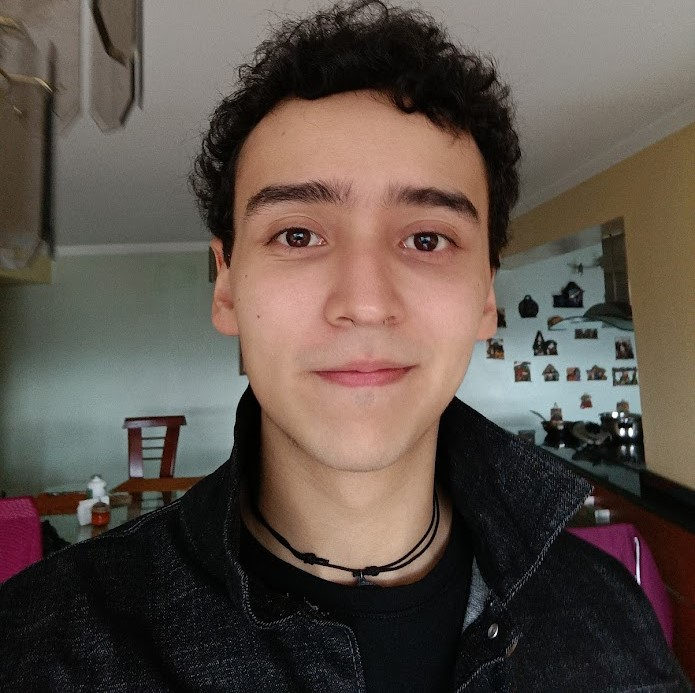
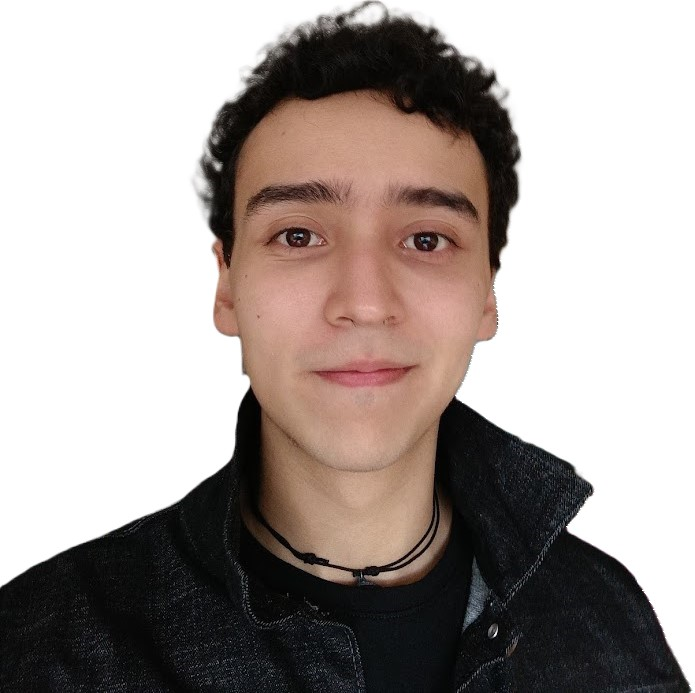
add About Me section

diff --git a/src/components/aboutMe.svelte b/src/components/aboutMe.svelte
@@ -1,0 +1,166 @@
+<script>
+  // @ts-nocheck
+
+  import AboutImg from "../assets/about_img.png";
+
+  import DiGithubBadge from "svelte-icons/di/DiGithubBadge.svelte";
+  import FaLinkedin from "svelte-icons/fa/FaLinkedin.svelte";
+  import FaInstagram from "svelte-icons/fa/FaInstagram.svelte";
+
+  import FaStar from "svelte-icons/fa/FaStar.svelte";
+</script>
+
+<main>
+  <section id="about-me">
+    <div class="about-container">
+      <div class="decoration-div" />
+      <div class="decoration-icon">
+        <FaStar />
+      </div>
+      <h2>About Me</h2>
+      <div class="row">
+        <div class="avatar">
+          <img src={AboutImg} alt="profile" aria-label="profile" />
+        </div>
+        <div class="col">
+          <h1>Code Architect, Problem Solver</h1>
+          <h4>
+            I am a software engineer graduated from the National Experimental
+            University of Táchira. (UNET) I have worked in the development of
+            web applications, mobile applications, and cloud services since my
+            lasts years in college.
+          </h4>
+          <div class="icons-row">
+            <div class="icon">
+              <a href="https://github.com/Alexjes98">
+                <DiGithubBadge />
+              </a>
+            </div>
+            <div class="icon">
+              <a href="https://www.linkedin.com/in/alejandro-lopez-9b3462179/">
+                <FaLinkedin />
+              </a>
+            </div>
+            <div class="icon">
+              <a href="https://www.instagram.com/alexandre_dupre98/">
+                <FaInstagram />
+              </a>
+            </div>
+            <div class="download-container">
+              <button> Download CV </button>
+            </div>
+          </div>
+        </div>
+      </div>
+    </div>
+  </section>
+</main>
+
+<style>
+  .decoration-icon {
+    position: absolute;
+    z-index: 0;
+    bottom: 5%;
+    left: 0%;
+    width: 50px;
+    height: 50px;
+    color: var(--white);
+    rotate: 90deg;
+  }
+  .decoration-div {
+    position: absolute;
+    z-index: 2;
+    width: 110%;
+    bottom: 0;
+    left: -10px;
+    height: 33px;
+    background-color: var(--main-color);
+  }
+  .icons-row {
+    display: flex;
+    justify-content: space-around;
+    align-items: center;
+    width: 100%;
+  }
+  button {
+    background-color: var(--accent-color);
+    color: var(--secondary-color);
+    border: none;
+    width: 100%;
+    padding: 10px 20px;
+    border-radius: 5px;
+    cursor: pointer;
+  }
+  button:hover {
+    background-color: var(--accent-color-dark);
+  }
+  a {
+    text-decoration: none;
+    color: white;
+  }
+  a:hover {
+    color: var(--main-color);
+  }
+  .icon {
+    width: 100%;
+    height: 54px;
+    color: white;
+    margin-bottom: 70px;
+    margin-right: 20px;
+  }
+  .download-container {
+    align-self: flex-end;
+    width: 100%;
+    height: 54px;
+    margin-bottom: 70px;
+    margin-right: 20px;
+  }
+
+  .avatar {
+    display: flex;
+    justify-content: center;
+    align-items: center;
+    background-color: var(--background-color);
+    width: 500px;
+    height: 500px;
+    border-radius: 500px;
+    overflow: hidden;
+  }
+  img {
+    width: 100%;
+    height: auto;
+    padding: 20px;
+  }
+  h2 {
+    font-family: "Courier New", Courier, monospace;
+    font-weight: bold;
+    text-align: center;
+  }
+  .row {
+    display: flex;
+    flex-direction: row;
+    justify-content: space-around;
+    align-items: center;
+    flex: 2;
+  }
+  .col {
+    display: flex;
+    flex-direction: column;
+    justify-content: center;
+    align-items: start;
+    flex: 2;
+    margin-inline: 20px;
+  }
+  .about-container {
+    position: relative;
+    padding-inline: 20px;
+    margin-top: 80px;
+    width: 100%;
+    background-color: var(--secondary-color);
+  }
+  h2,
+  h4,
+  h1 {
+    color: var(--background-color);
+  }
+</style>

diff --git a/src/components/experienceList.svelte b/src/components/experienceList.svelte
@@ -37,16 +37,14 @@
         </div>
         <div class="experience-item">
           <div class="icon">
-            <div class="icon">
-              <FaCloud />
-            </div>
+            <FaCloud />
           </div>
           <h3>Cloud Development</h3>
-
           <p>
             I have experience with AWS services like EC2, S3, RDS, Lambda,
-            ElasticBeanstalk, Amplify, Cognito and Azure services like Blob Storage, Cosmos DB, Functions, and I have used them to
-            deploy and scale web applications
+            ElasticBeanstalk, Amplify, Cognito and Azure services like Blob
+            Storage, Cosmos DB, Functions, and I have used them to deploy and
+            scale web applications
           </p>
         </div>
         <div class="experience-item">
@@ -67,6 +65,9 @@
 </main>
 
 <style>
+  section {
+    margin-bottom: 100px;
+  }
   p {
     font-family: "Courier New", Courier, monospace;
     font-weight: bold;
@@ -95,7 +96,7 @@
 
   .experience-list {
     width: 100%;
-    justify-content: space-between;
+    justify-content: center;
     display: flex;
     flex-wrap: wrap;
     gap: 20px;

diff --git a/src/components/presentationSection.svelte b/src/components/presentationSection.svelte
@@ -16,8 +16,7 @@
       <div class="col">
         <h1>Hi my name is Alejandro Lopez</h1>
         <h2>
-          I'm a software engineer with a passion for system design from
-          Venezuela
+          I'm a software engineer with a passion for system design
         </h2>
         <div class="button-container">
           <button on:click={scrollToSection}>Start</button>
@@ -31,7 +30,7 @@
 <style>
 
   section {
-    margin-bottom: 500px;
+    margin-bottom: 400px;
   }
   img {
     width: 20%;

diff --git a/src/routes/home.svelte b/src/routes/home.svelte
@@ -3,6 +3,7 @@
   import HomeScene from "../scenes/homeScene.svelte";
   import ExperienceList from "../components/experienceList.svelte";
   import PresentationSection from "../components/presentationSection.svelte";
+  import AboutMe from "../components/aboutMe.svelte";
 </script>
 
 <main>
@@ -14,6 +15,7 @@
   <div class="content">
     <PresentationSection />
     <ExperienceList />
+    <AboutMe />
   </div>
 </main>
 

diff --git a/src/app.css b/src/app.css
@@ -61,12 +61,12 @@ button:focus-visible {
 @media (prefers-color-scheme: light) {
   :root {
     color: #213547;
-    background-color: #ffffff;
+    background-color: #ff0000;
   }
   a:hover {
-    color: #747bff;
+    color: #000dff;
   }
   button {
-    background-color: #f9f9f9;
+    background-color: #ff0000;
   }
 }

diff --git a/src/scenes/homeScene.svelte b/src/scenes/homeScene.svelte
@@ -61,9 +61,9 @@
 </T.Mesh>
 
 <!-- Home Page
-A brief introduction about yourself
+ //A brief introduction about yourself
 A headshot or logo
-A tagline that summarizes your expertise
+//A tagline that summarizes your expertise
 About Page
 Your professional background
 Your skills and areas of expertise

diff --git a/src/components/contact.svelte b/src/components/contact.svelte
@@ -1,0 +1,8 @@
+<script>
+</script>
+
+<main></main>
+
+<style>
+
+</style>
